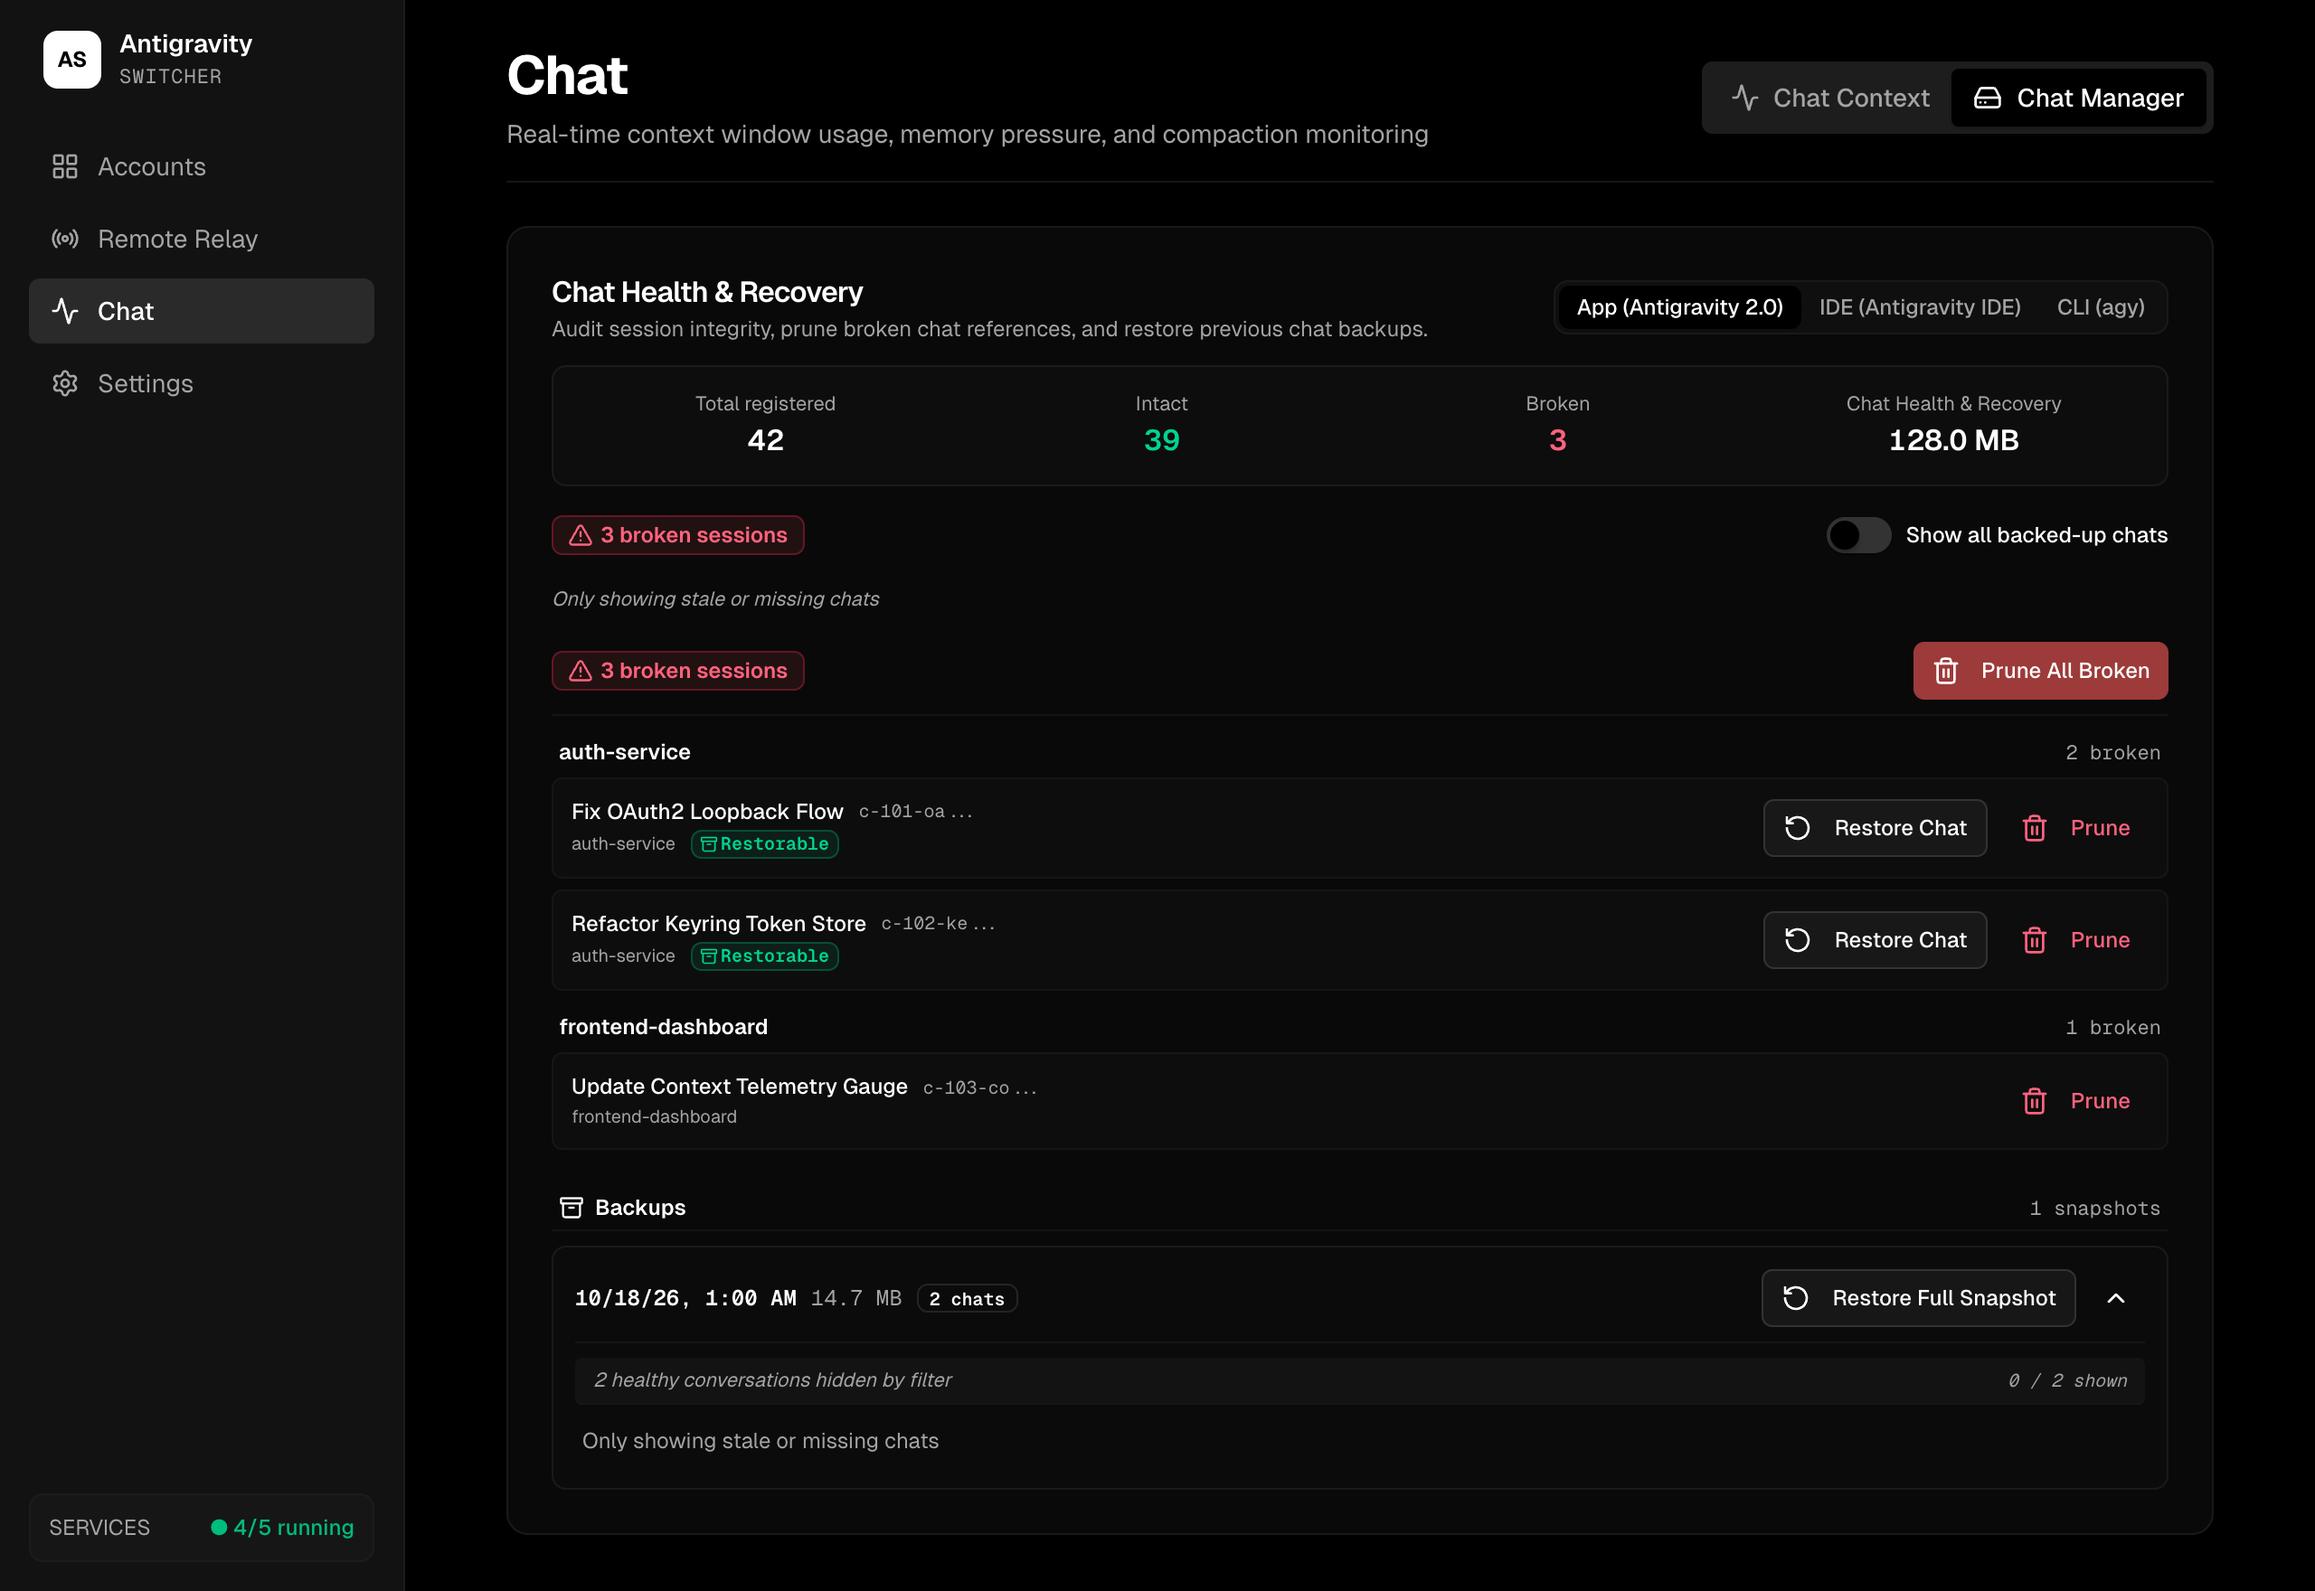
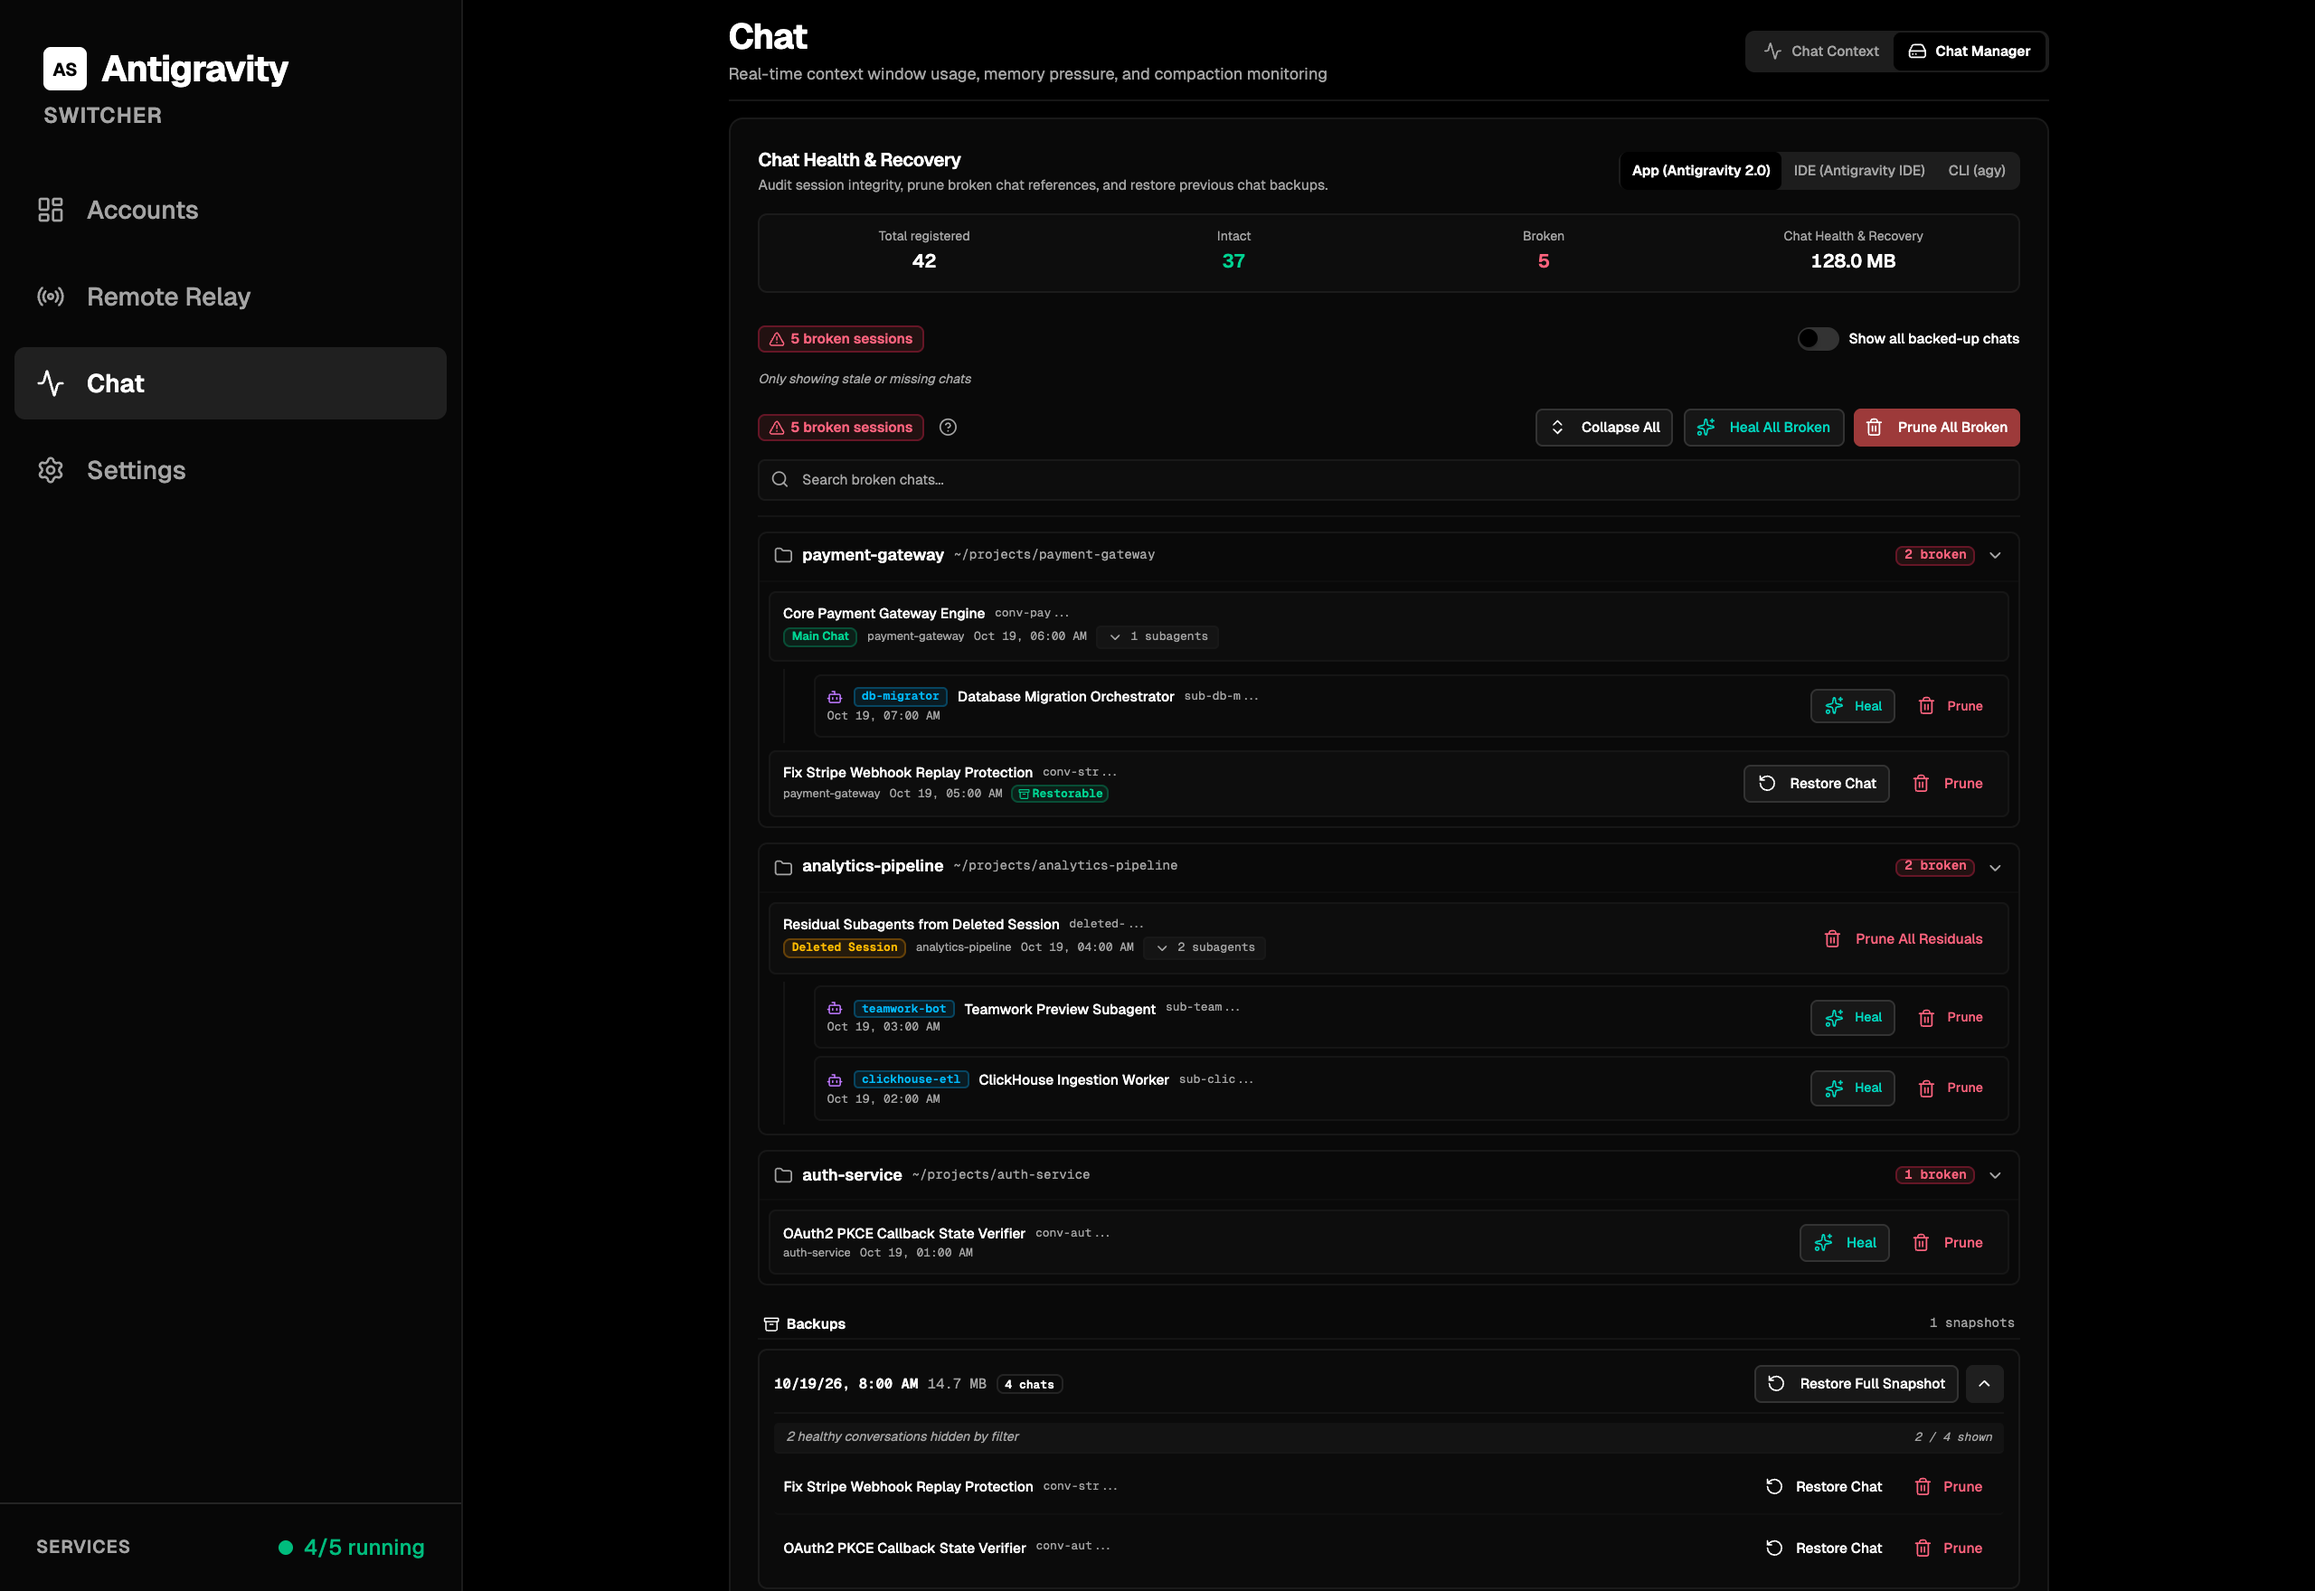
docs: update chat health preview screenshot and documentation

diff --git a/README.md b/README.md
@@ -56,8 +56,9 @@ Comprehensive session integrity auditing, automated multi-tier backups, and inst
 ![Chat Health, Auto-Backup & Recovery Cockpit](images/chat-health-preview.png)
 
 - **Multi-Target Health Telemetry**: Live inventory of registered, intact, and broken chat sessions with live target selection (App, IDE, CLI) and storage footprint metrics.
+- **Hierarchical Subagent Trees & Search**: Nests subagents under intact parents or deleted session containers with instant live filtering, bulk accordion toggles, and individual or batch healing.
 - **Automated Tiered Snapshots**: Non-blocking SQLite auto-backups triggered before account switches and cleaner operations, with intelligent 0-chat suppression and FIFO retention.
-- **Granular 1-Click Restore**: Restore individual missing conversations directly back into active workspace stores, or perform instant full-snapshot rollbacks.
+- **Granular 1-Click Restore & Safe Healing**: Restore missing conversations from snapshot archives or heal broken index references in-place without data loss.
 - **Schema-Drift Protection**: Dynamic SQLite column inspection and fallback synthesis ensure seamless restorations across disparate Antigravity schema revisions, paired with immediate protobuf mirror cache invalidation (`agyhub_summaries_proto.pb`).
 - **Project-Grouped Orphan Pruner**: Scans and safely purges broken session references evicted by Antigravity FIFO session limits, eliminating "Conversation unavailable" crashes while preserving restorable backups.
 - **Storage Protection**: Configurable 1.0 GB soft storage warning threshold with one-click manual backup pruning.
